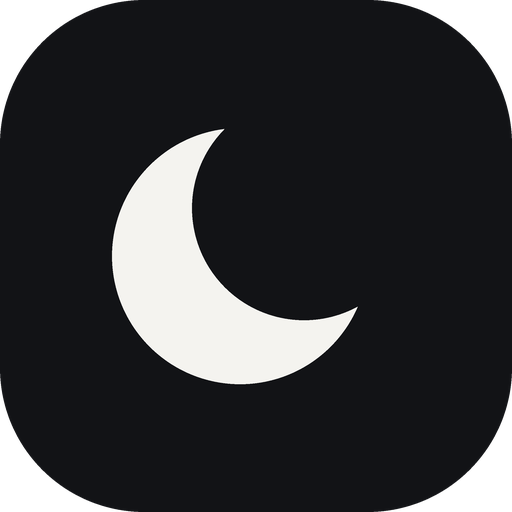
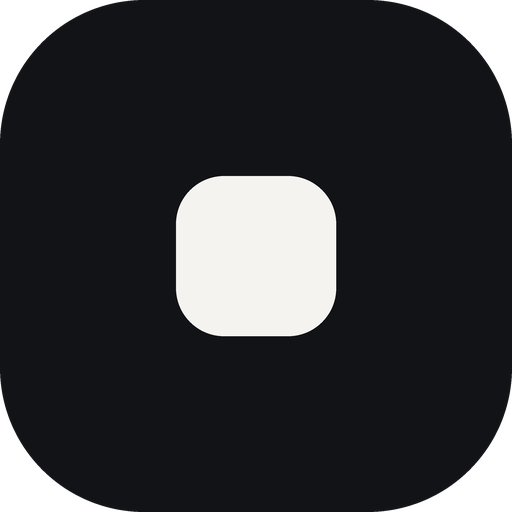
brand: revert mark to the approved sealed square-in-square (drop crescent)
- Mark + Logo + favicon.svg + icon.png/ico/apple-touch/OG all use the
  square-in-square 'sealed vault' mark that was approved in the Twilight artifact

Changed region(s): [[0.2188, 0.25, 0.7188, 0.75]]

diff --git a/app/src/app/opengraph-image.tsx b/app/src/app/opengraph-image.tsx
@@ -42,24 +42,12 @@ export default function OpenGraphImage() {
               <div
                 style={{
                   position: "absolute",
-                  left: 13,
-                  top: 15,
-                  width: 30,
-                  height: 30,
-                  borderRadius: "50%",
+                  left: 20,
+                  top: 20,
+                  width: 20,
+                  height: 20,
+                  borderRadius: 6,
                   background: "#F4F3EF",
-                  display: "flex",
-                }}
-              />
-              <div
-                style={{
-                  position: "absolute",
-                  left: 22,
-                  top: 11,
-                  width: 26,
-                  height: 26,
-                  borderRadius: "50%",
-                  background: "#121316",
                   display: "flex",
                 }}
               />

diff --git a/app/src/components/Logo.tsx b/app/src/components/Logo.tsx
@@ -15,8 +15,7 @@ export function Logo({ className = "" }: { className?: string }) {
         className="shrink-0"
       >
         <rect width="32" height="32" rx="9" fill="#121316" />
-        <circle cx="15" cy="16" r="8" fill="#F4F3EF" />
-        <circle cx="19" cy="13" r="7" fill="#121316" />
+        <rect x="11" y="11" width="10" height="10" rx="3" fill="#F4F3EF" />
       </svg>
       <span className="text-lg font-semibold tracking-tight text-foreground">
         Gloam

diff --git a/app/src/components/DocsLayout.tsx b/app/src/components/DocsLayout.tsx
@@ -63,8 +63,7 @@ function Mark({ size = 20 }: { size?: number }) {
       className="shrink-0"
     >
       <rect width="32" height="32" rx="9" fill="#121316" />
-      <circle cx="15" cy="16" r="8" fill="#F4F3EF" />
-      <circle cx="19" cy="13" r="7" fill="#121316" />
+      <rect x="11" y="11" width="10" height="10" rx="3" fill="#F4F3EF" />
     </svg>
   );
 }

diff --git a/app/src/components/Landing.tsx b/app/src/components/Landing.tsx
@@ -44,8 +44,7 @@ function Mark({ size = 22 }: { size?: number }) {
       className="shrink-0"
     >
       <rect width="32" height="32" rx="9" fill="#121316" />
-      <circle cx="15" cy="16" r="8" fill="#F4F3EF" />
-      <circle cx="19" cy="13" r="7" fill="#121316" />
+      <rect x="11" y="11" width="10" height="10" rx="3" fill="#F4F3EF" />
     </svg>
   );
 }

diff --git a/app/src/components/LegalLayout.tsx b/app/src/components/LegalLayout.tsx
@@ -10,8 +10,7 @@ function Mark({ size = 20 }: { size?: number }) {
       className="shrink-0"
     >
       <rect width="32" height="32" rx="9" fill="#121316" />
-      <circle cx="15" cy="16" r="8" fill="#F4F3EF" />
-      <circle cx="19" cy="13" r="7" fill="#121316" />
+      <rect x="11" y="11" width="10" height="10" rx="3" fill="#F4F3EF" />
     </svg>
   );
 }
